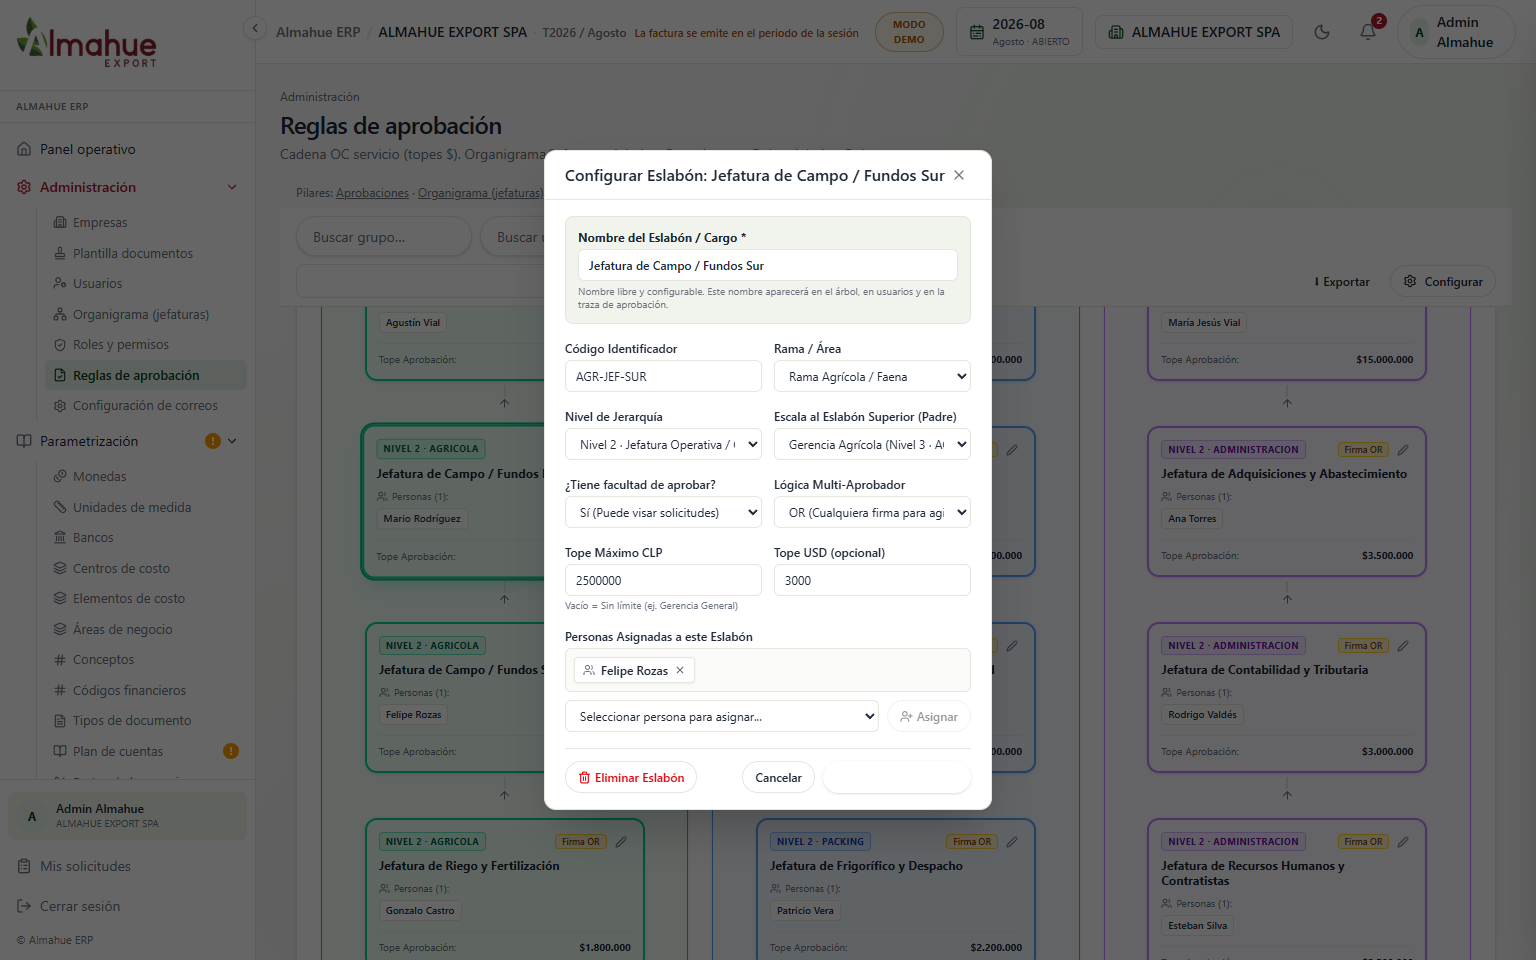
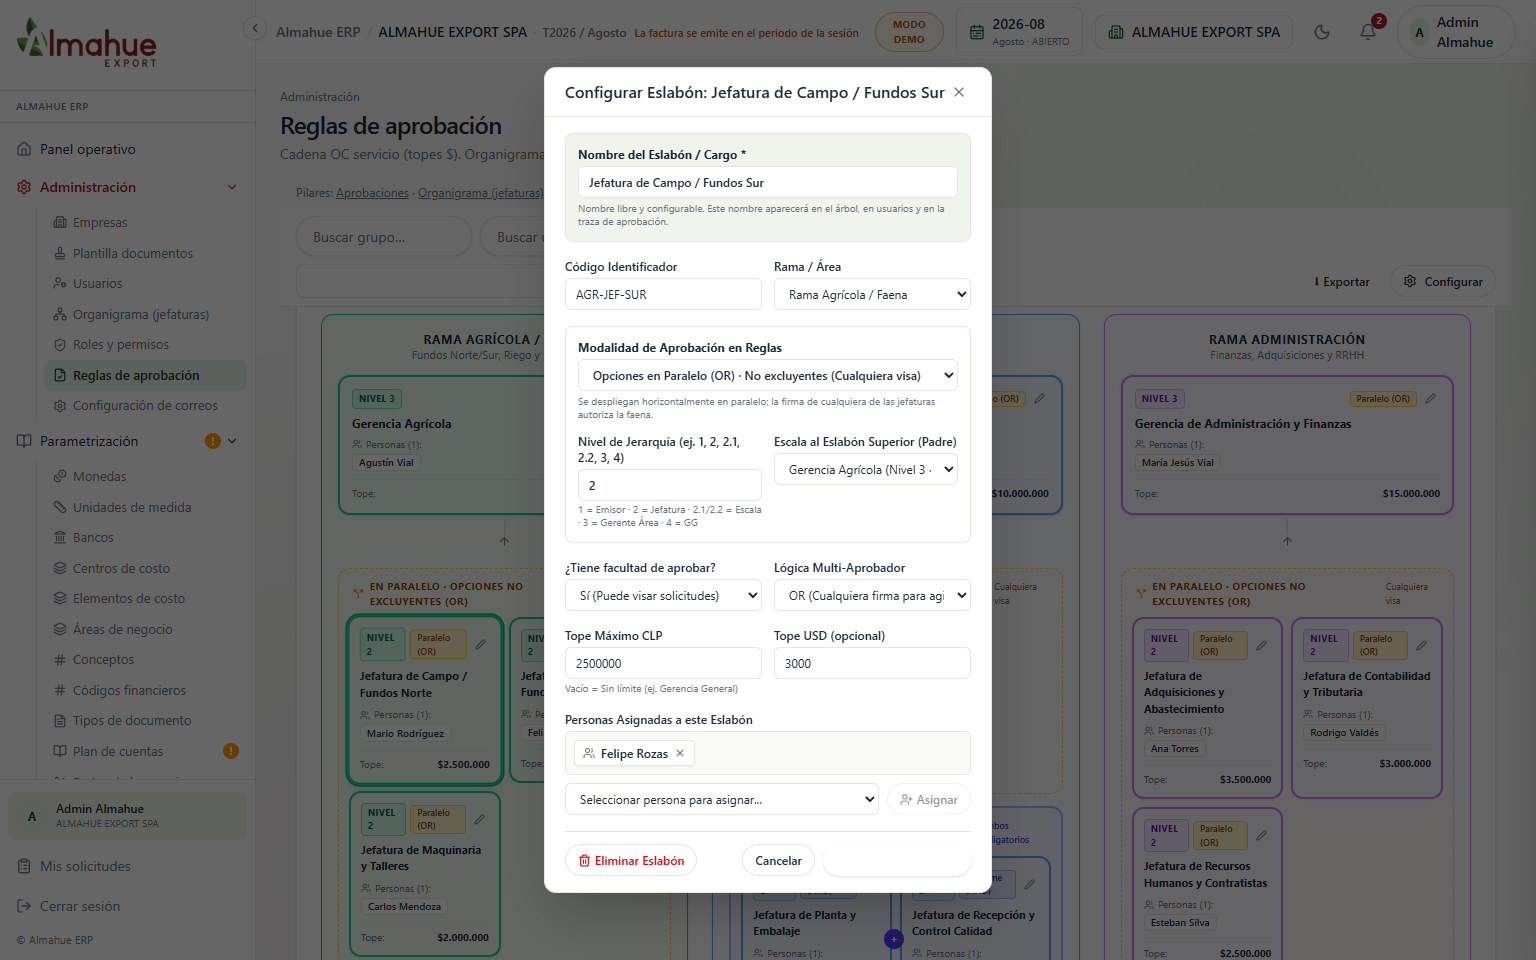
docs(acuerdos): actualizacion de capturas, comparacion y recorrido con 3 modalidades en paralelo (OR, AND, escala)

diff --git a/docs/sesiones/acuerdos-sala-2026-11-06/comparacion.html b/docs/sesiones/acuerdos-sala-2026-11-06/comparacion.html
@@ -159,18 +159,18 @@
   </section>
 
   <section>
-    <h2>9. Admin - Esquema de Ramas (Múltiples Jefaturas Operativas en Modo Demo)</h2>
+    <h2>9. Admin - Esquema de Ramas & 3 Modalidades de Aprobación en Paralelo (OR, AND, Escalas 2.1/2.2)</h2>
     <div class="pair">
       <figure class="antes">
         <figcaption>Antes</figcaption>
-        <img src="antes-esquema-ramas-aprobacion.png" alt="Configuración dispersa de 20 grupos repetitivos sin jerarquía visual" />
+        <img src="antes-esquema-ramas-aprobacion.png" alt="Aprobaciones monolíticas rígidas sin estructura de ramas ni paralelismo" />
       </figure>
       <figure class="despues">
         <figcaption>Después</figcaption>
-        <img src="despues-esquema-ramas-aprobacion-marcado.png" alt="Esquema de Ramas con Gerencia General en la raíz, múltiples jefaturas operativas y simulador en vivo" />
+        <img src="despues-esquema-ramas-aprobacion-marcado.png" alt="Esquema de Ramas con Gerencia General en la raíz, cargos en paralelo y 3 modalidades de aprobación (OR, AND, Escalonado)" />
       </figure>
     </div>
-    <p class="nota">Se unifica la administración de roles y aprobaciones por ramas (Agrícola, Packing, Administración) eliminando la necesidad de duplicar grupos. La Gerencia General está en el vértice común con tope ilimitado; se incorporan múltiples jefaturas de ejemplo en modo demo (Jefaturas Fundos Norte y Sur, Riego y Fertilización, Maquinaria y Talleres, Recepción y Calidad, Planta y Embalaje, Frigorífico, Adquisiciones, Contabilidad y RRHH/Contratistas) con regla de firma OR para agilizar compras sin trabas; y el simulador interactivo evalúa y resalta en vivo la ruta de escalamiento según monto.</p>
+    <p class="nota">Se estructura la administración de roles y aprobaciones por ramas (Agrícola, Packing, Administración) con la Gerencia General en el vértice supremo. Los cargos de jefatura (Nivel 2) se despliegan en paralelo horizontalmente (eliminando la falsa cascada vertical). En las reglas de aprobación se configuran libremente 3 modalidades: <strong>1. En Paralelo (OR)</strong> como opciones no excluyentes (Fundos Norte y Sur; cualquiera visa para no frenar faena); <strong>2. Decisión Unánime (AND)</strong> en bloque conjunto vinculante (Planta + Calidad en empaque); y <strong>3. Escalas Secuenciales (2.1 ➔ 2.2)</strong> entre cargos por tramos de monto (Subjefe de Riego 2.1 ➔ Jefe de Riego 2.2) antes de escalar a Gerencia de Área.</p>
   </section>
 
   <section>
@@ -189,7 +189,7 @@
   </section>
 
   <section>
-    <h2>11. Admin - Eslabones Configurables (Nombres, Padres y Personas Editables)</h2>
+    <h2>11. Admin - Eslabones Configurables (Nombres, 3 Modalidades de Escala y Personas)</h2>
     <div class="pair">
       <figure class="antes">
         <figcaption>Antes</figcaption>
@@ -197,10 +197,10 @@
       </figure>
       <figure class="despues">
         <figcaption>Después</figcaption>
-        <img src="despues-eslabon-configurar-modal-marcado.png" alt="Modal de configuración con nombre libre, código, selección de eslabón superior y gestión de personas" />
+        <img src="despues-eslabon-configurar-modal-marcado.png" alt="Modal de configuración con nombre libre, selector de modalidad de aprobación (OR, AND, Escala 2.1), nivel decimal y gestión de personas" />
       </figure>
     </div>
-    <p class="nota">Los nombres de cada eslabón y cargo no son predefinidos sino 100% configurables por el usuario. El modal permite editar el nombre exacto de la jefatura, código, nivel, a qué eslabón superior escala (padre), topes multimoneda, regla OR/AND y la asignación interactiva de personas al cargo.</p>
+    <p class="nota">Los nombres de cada eslabón y cargo no son predefinidos sino 100% configurables por el usuario. El modal permite editar el nombre exacto de la jefatura, código, nivel jerárquico (entero o decimal como 2.1/2.2), la <strong>Modalidad de Aprobación en Reglas</strong> (Paralelo OR, Unánime AND, Escalonado), a qué eslabón superior escala (padre), topes multimoneda y la asignación interactiva de personas al cargo.</p>
   </section>
 
   <div class="visor" id="visor" hidden>

diff --git a/docs/sesiones/acuerdos-sala-2026-11-06/recorrido.html b/docs/sesiones/acuerdos-sala-2026-11-06/recorrido.html
@@ -139,12 +139,12 @@
       },
       {
         mod: "Admin", cls: "param",
-        title: "9. Esquema de Ramas (Roles & Aprobaciones)",
+        title: "9. Esquema de Ramas & 3 Modalidades en Paralelo",
         img: "despues-esquema-ramas-aprobacion.png",
-        alt: "Esquema de Ramas con Gerencia General en la raíz y simulador en vivo",
+        alt: "Esquema de Ramas con Gerencia General en la raíz, cargos en paralelo y simulador en vivo",
         pins: [
           { x: 49.5, y: 19.5, t: "Vértice común: Gerencia General", d: "La Gerencia General (Don Sergio y Nicolás) encabeza el árbol jerárquico con tope ilimitado. Toda solicitud que exceda las gerencias de área escala directamente a este nivel." },
-          { x: 28.5, y: 38.0, t: "Ramas de Área y regla OR", d: "Cada área (Agrícola, Packing, Administración) tiene su línea de cargos con topes definidos. En jefaturas operativas con varias personas (Mario y Felipe en Campo), la regla OR permite que cualquiera firme para no trabar la faena." },
+          { x: 28.5, y: 38.0, t: "3 Modalidades en Paralelo (OR, AND, Escala)", d: "Los cargos hermanos se despliegan en paralelo: (1) Paralelo OR como opciones no excluyentes (Fundos Norte y Sur), (2) Decisión Unánime AND en bloque conjunto (Planta y Calidad), y (3) Escalas Secuenciales 2.1 ➔ 2.2 por tramos de monto (Riego) antes de escalar a Gerencia." },
           { x: 49.5, y: 78.5, t: "Simulador de Escalamiento", d: "Permite seleccionar el solicitante y el monto para ver en tiempo real la ruta resuelta: solicitudes menores se aprueban directamente en jefatura sin molestar a gerencias." }
         ]
       },
@@ -160,13 +160,13 @@
       },
       {
         mod: "Admin", cls: "param",
-        title: "11. Eslabones Configurables",
+        title: "11. Eslabones Configurables & Modalidades",
         img: "despues-eslabon-configurar-modal.png",
-        alt: "Modal para configurar nombres, topes y personas de cada eslabón",
+        alt: "Modal para configurar nombres, modalidades de aprobación y personas de cada eslabón",
         pins: [
           { x: 50.0, y: 25.0, t: "Nombre 100% Configurable", d: "El usuario puede escribir el nombre exacto de la jefatura o cargo que utiliza su empresa (ej. Jefatura de Riego, Jefatura Fundos Norte, etc.)." },
-          { x: 62.0, y: 37.0, t: "Escalamiento a Eslabón Superior", d: "Selector dinámico para definir a qué cargo superior de la jerarquía escala automáticamente este eslabón cuando se supera su límite." },
-          { x: 50.0, y: 64.0, t: "Asignación Dinámica de Personas", d: "Permite asociar y desasociar personas directamente al eslabón con regla de firma OR para no trabar la faena agrícola." }
+          { x: 50.0, y: 38.0, t: "Modalidad de Aprobación & Nivel Decimal", d: "Permite configurar si el eslabón opera como Opción en Paralelo (OR), Decisión Unánime (AND) o Escala Secuencial (2.1 ➔ 2.2), ingresando niveles enteros o decimales." },
+          { x: 50.0, y: 64.0, t: "Asignación Dinámica de Personas", d: "Permite asociar y desasociar personas directamente al eslabón con topes multimoneda y línea de mando automática." }
         ]
       }
     ];

diff --git a/docs/requerimientos/acuerdos-por-dia/2026-11-06-acuerdos.md b/docs/requerimientos/acuerdos-por-dia/2026-11-06-acuerdos.md
@@ -20,13 +20,17 @@
 - Unificación jerárquica de roles, usuarios y reglas de aprobación en un esquema de árbol/ramas (acuerdo documento Word + audio María Jesús del 05/11):
   - Eliminación de los "20 grupos artificiales" repetitivos.
   - **Nombres de eslabones 100% configurables** (no predefinidos): el usuario puede crear, editar el nombre exacto de la jefatura, código, nivel, definir a qué eslabón superior escala y asignar personas libremente.
+  - **Despliegue horizontal en Paralelo de cargos de Nivel 2**: las jefaturas hermanas ya no se apilan en una falsa cascada vertical con flechas consecutivas, sino que se despliegan en paralelo colgando de la Gerencia de Área (Nivel 3).
+  - **3 Modalidades de Aprobación en Reglas configurables**:
+    1. **Opciones en Paralelo (`PARALELO_OR`)**: Opciones no excluyentes mostradas lado a lado (ej. Jefatura Fundos Norte y Jefatura Fundos Sur); basta la firma de cualquiera de las jefaturas para autorizar sin frenar la labor de campo.
+    2. **Decisión Unánime (`UNANIME_AND`)**: Cargos agrupados en bloque conjunto vinculado (ej. Jefatura de Planta + Jefatura de Calidad en empaque); requiere la firma obligatoria de todos los integrantes de ese grupo para avanzar.
+    3. **Escalas Secuenciales Internas (`ESCALONADO`)**: Subniveles decimales (`2.1 ➔ 2.2 ➔ 2.3`) conectados entre sí por tramos de monto (ej. Subjefe de Riego 2.1 con tope $1.000.000 ➔ Jefe de Riego 2.2 con tope $2.500.000) antes de escalar a la Gerencia de Área.
   - **Múltiples jefaturas de ejemplo en modo demo**:
-    - Rama Agrícola: Jefatura Fundos Norte (Mario Rodríguez), Jefatura Fundos Sur (Felipe Rozas), Jefatura de Riego y Fertilización (Gonzalo Castro), Jefatura de Maquinaria y Talleres (Carlos Mendoza).
-    - Rama Packing: Jefatura de Planta y Embalaje (Marcelo Soto), Jefatura de Recepción y Calidad (Andrea Morales), Jefatura de Frigorífico y Despacho (Patricio Vera).
-    - Rama Administración: Jefatura de Adquisiciones y Abastecimiento (Ana Torres), Jefatura de Contabilidad y Tributaria (Rodrigo Valdés), Jefatura de Recursos Humanos y Contratistas (Esteban Silva).
+    - Rama Agrícola: Jefatura Fundos Norte (Mario Rodríguez), Jefatura Fundos Sur (Felipe Rozas), Jefatura de Maquinaria y Talleres (Carlos Mendoza), Subjefatura de Riego y Válvulas (Tomás Valenzuela · 2.1), Jefatura General de Riego (Gonzalo Castro · 2.2).
+    - Rama Packing: Jefatura de Planta y Embalaje (Marcelo Soto · AND), Jefatura de Recepción y Control Calidad (Andrea Morales · AND), Jefatura de Frigorífico y Mantención (Patricio Vera).
+    - Rama Administración: Jefatura de Adquisiciones y Compras (Ana Torres), Jefatura de Contabilidad y Tributaria (Rodrigo Valdés), Jefatura de Personas y Remuneraciones (Esteban Silva).
   - Vértice común en la raíz: Gerencia General (Don Sergio Donoso / Nicolás Donoso) con facultad ilimitada.
   - Ramas principales de área: Rama Agrícola (Agustín Vial), Rama Packing (Roberto Gómez), Rama Administración y Finanzas (María Jesús Vial).
-  - Jefaturas operativas con regla de aprobación `OR`: basta la firma de cualquiera para no trabar la labor agrícola.
   - Escalamiento automático de montos hacia arriba hasta el nivel que cubra el requerimiento, concluyendo la aprobación sin elevar innecesariamente a Gerencia General.
   - Integración en alta de usuarios (`UsuariosPage.tsx`): selector de Rama y Cargo Jerárquico con herencia automática de topes y línea de mando.
   - Vista gráfica interactiva "Esquema de Ramas (Roles & Cargos)" en `/admin/aprobaciones` y en `/admin/organigrama` con simulador de escalamiento en vivo.
